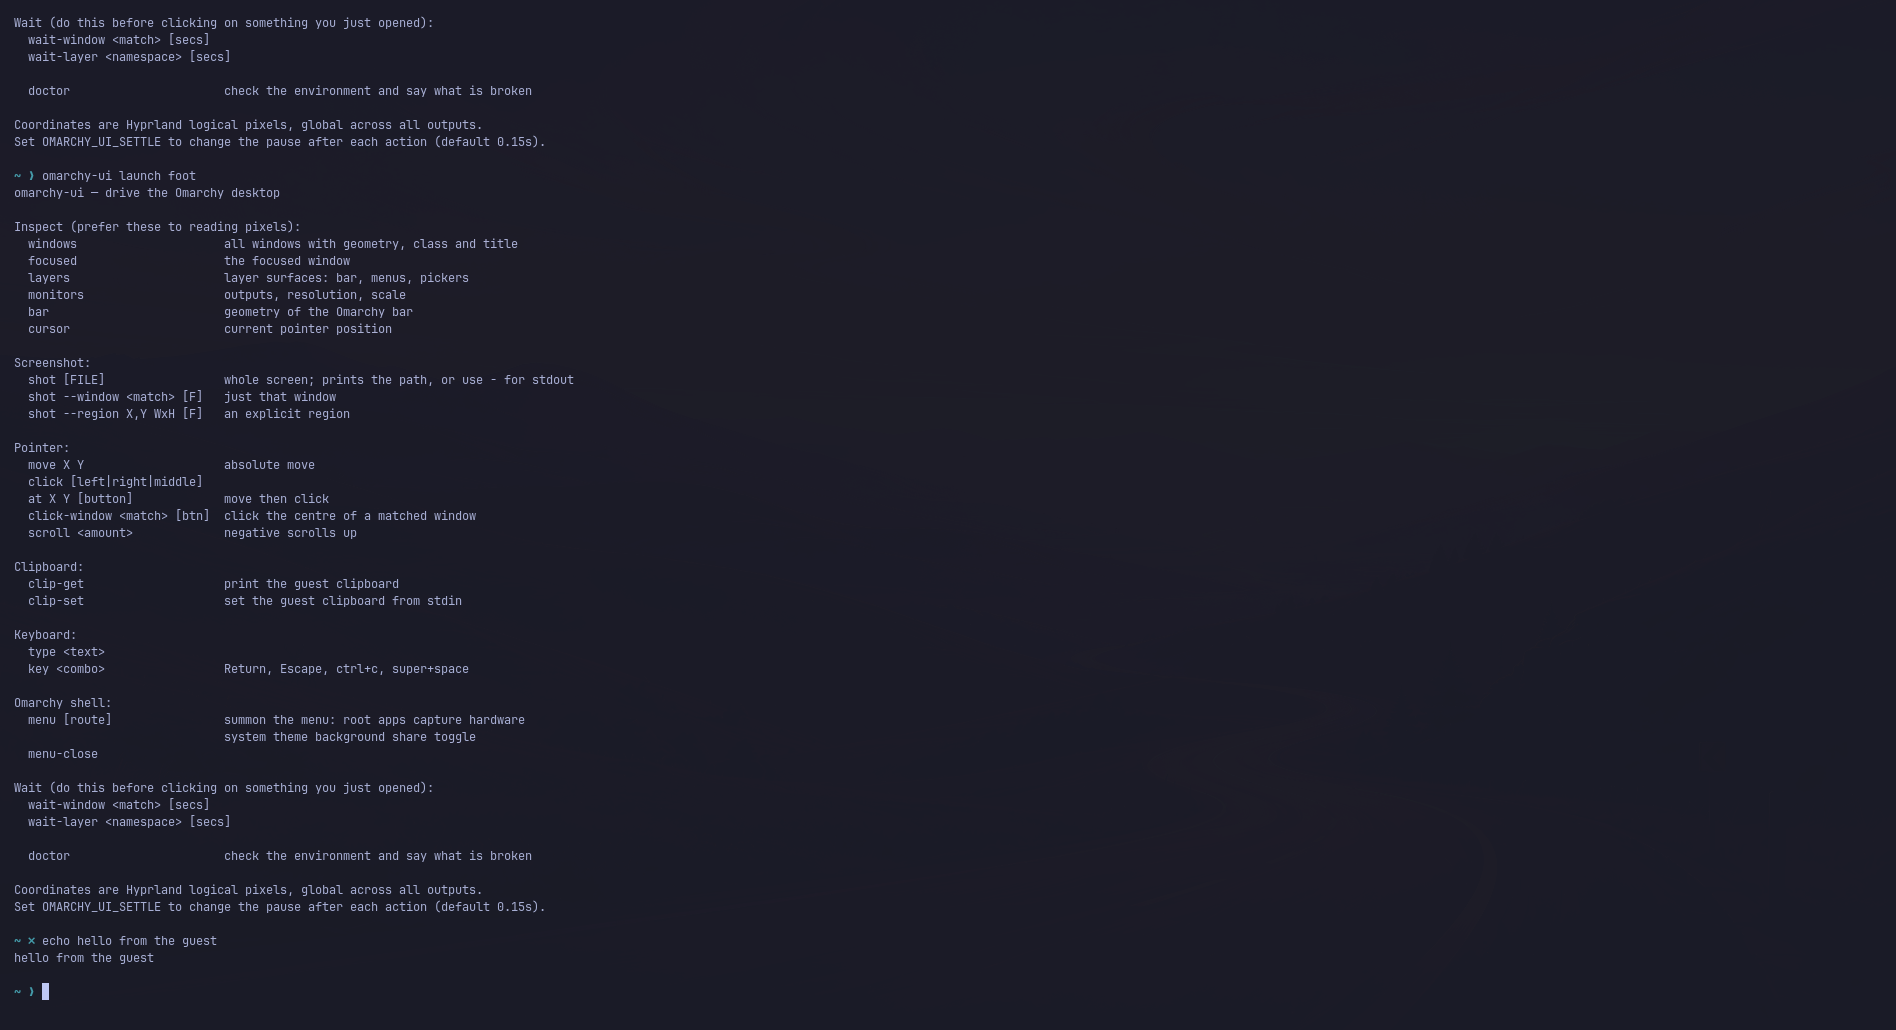
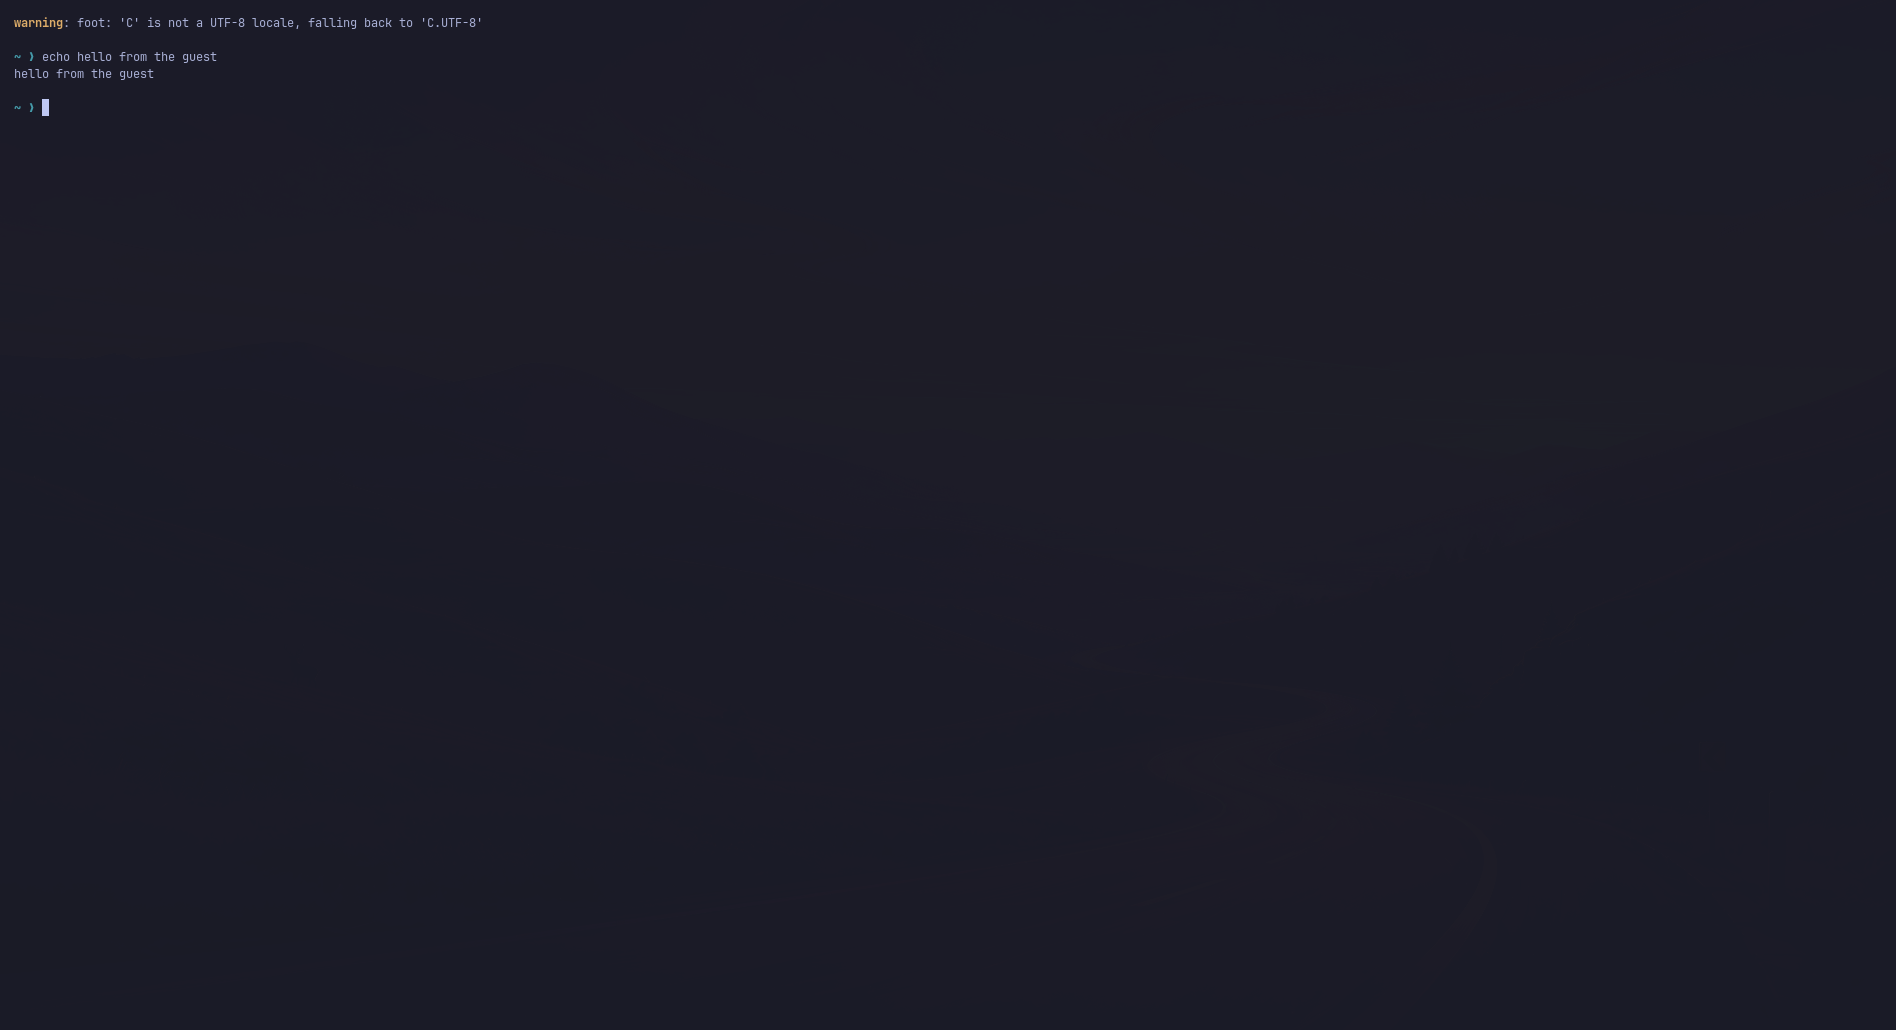
Make pointer positioning pixel exact
ydotool units are not screen pixels on this guest. A request to move 100 landed
the pointer 200 pixels away, for absolute and relative moves alike, so anything
past half the screen clamped to the edge and every click beyond that point went
to the wrong place. Nothing in the compositor's input configuration accounts
for it: sensitivity is neutral and no acceleration profile is set.

Positioning via the compositor instead was not available. Omarchy routes
hyprctl through a Lua layer that parses `dispatch movecursor 300 300` as an
expression and rejects it, and the raw Hyprland socket reaches the same parser,
so there is no quoting that gets a dispatch through.

So measure rather than assume. The factor is calibrated once per session by
moving a known distance and reading the result back, cached against the
compositor instance so a restarted session recalibrates. Each move is then
verified against hyprctl cursorpos and corrected, because integer division
leaves a pixel or two and the compositor is the only thing that knows where the
pointer really is. A non-zero correction never rounds down to nothing, which
would otherwise loop on a one-pixel error.

Verified exact at 100,100, 960,540, 1800,1000, 0,0, 1,1 and 1919,1079, and a
click at an explicit coordinate now focuses the window under it and receives
typed input.

Claude-Session: https://claude.ai/code/session_01ATertRDYGjMVVYJcTvHJMV

diff --git a/OPERATIONS.md b/OPERATIONS.md
@@ -30,6 +30,7 @@ below simply does not arise.
 | Seal reports the wrong guest account | [Set GUEST_USER](#the-guest-account-name-does-not-match) | After an install |
 | Seal keeps failing the same way after a fix | [Check for a stale seal server](#seal-keeps-running-an-old-script) | After an interrupted seal |
 | The agent cannot click or type in the guest | [Repair the input path](#the-agent-cannot-click-or-type) | Rare |
+| Clicks land in the wrong place | [Recalibrate the pointer](#clicks-land-in-the-wrong-place) | After a display change |
 | You changed the agent skill or `omarchy-ui` | [Push the change into the guest](#updating-the-agent-skill) | Whenever you edit it |
 | The file share is missing in the guest | [Fix the share](#the-file-share-is-not-mounted) | Rare |
 | Guest is unreachable at its usual address | [Fix DHCP addressing](#the-guest-got-the-wrong-address) | Rare |
@@ -727,6 +728,49 @@ trusting what you see:
 ```bash
 ./manage-agent-vm.sh ssh -- hyprctl cursorpos
 ```
+
+---
+
+## Clicks land in the wrong place
+
+**Trigger.** `omarchy-ui at X Y` moves the pointer somewhere other than X,Y, or
+clicks land at the wrong spot, often near a screen edge.
+
+**Why it happens.** ydotool units are not screen pixels. On this guest a
+request to move 100 lands the pointer 200 pixels away, for absolute and
+relative moves alike, and nothing in the compositor's input configuration
+accounts for it. Positions past half the screen get clamped to the edge, which
+is why the symptom often looks like "everything ends up bottom right".
+
+`omarchy-ui` measures the factor once per session and then verifies each move
+against `hyprctl cursorpos`, so it should be pixel exact regardless.
+
+**Check it:**
+
+```bash
+./manage-agent-vm.sh ssh -- 'omarchy-ui move 960 540 && omarchy-ui cursor'
+# 960 540
+```
+
+Anything other than the requested numbers means the correction is not working.
+
+**Steps.** Drop the cached calibration and let it measure again. It is keyed to
+the compositor instance, so a restarted session recalibrates on its own, but a
+resolution change within one session will not:
+
+```bash
+./manage-agent-vm.sh ssh -- 'rm -f $XDG_RUNTIME_DIR/omarchy-ui-pointer-scale'
+./manage-agent-vm.sh ssh -- 'omarchy-ui move 960 540 && omarchy-ui cursor'
+```
+
+**If it is still wrong**, confirm the compositor is reporting sensibly:
+
+```bash
+./manage-agent-vm.sh ssh -- omarchy-ui monitors
+```
+
+The coordinate space is the full monitor layout, so a second output placed to
+the left gives negative x values.
 
 ---
 
